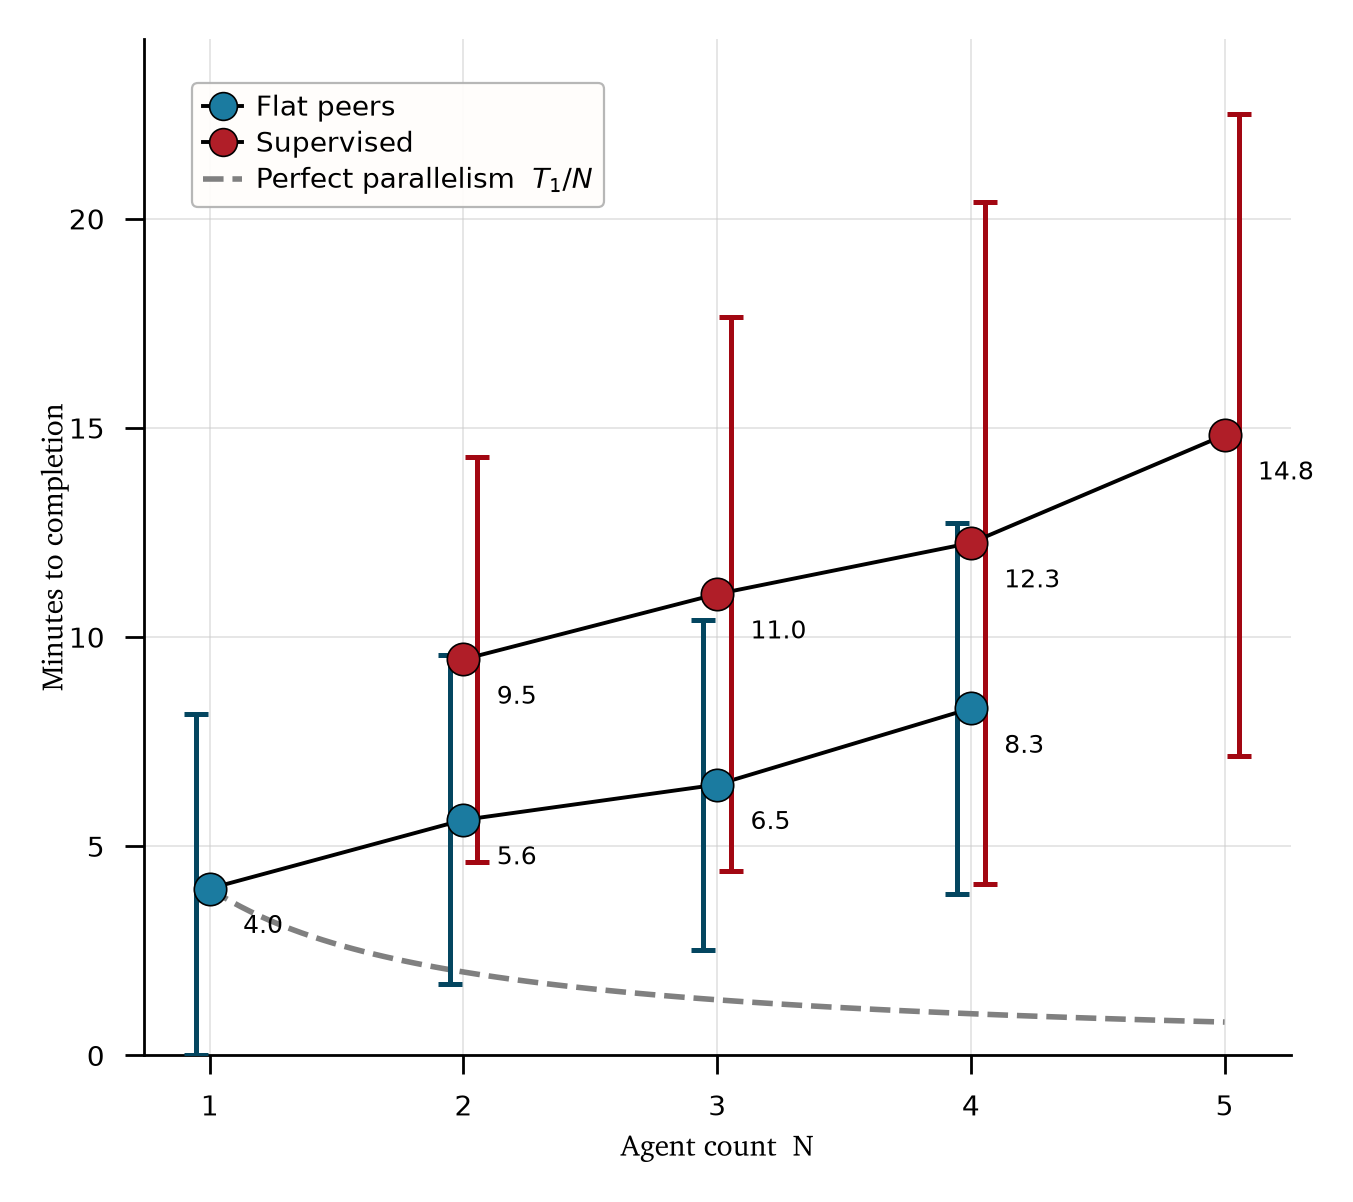
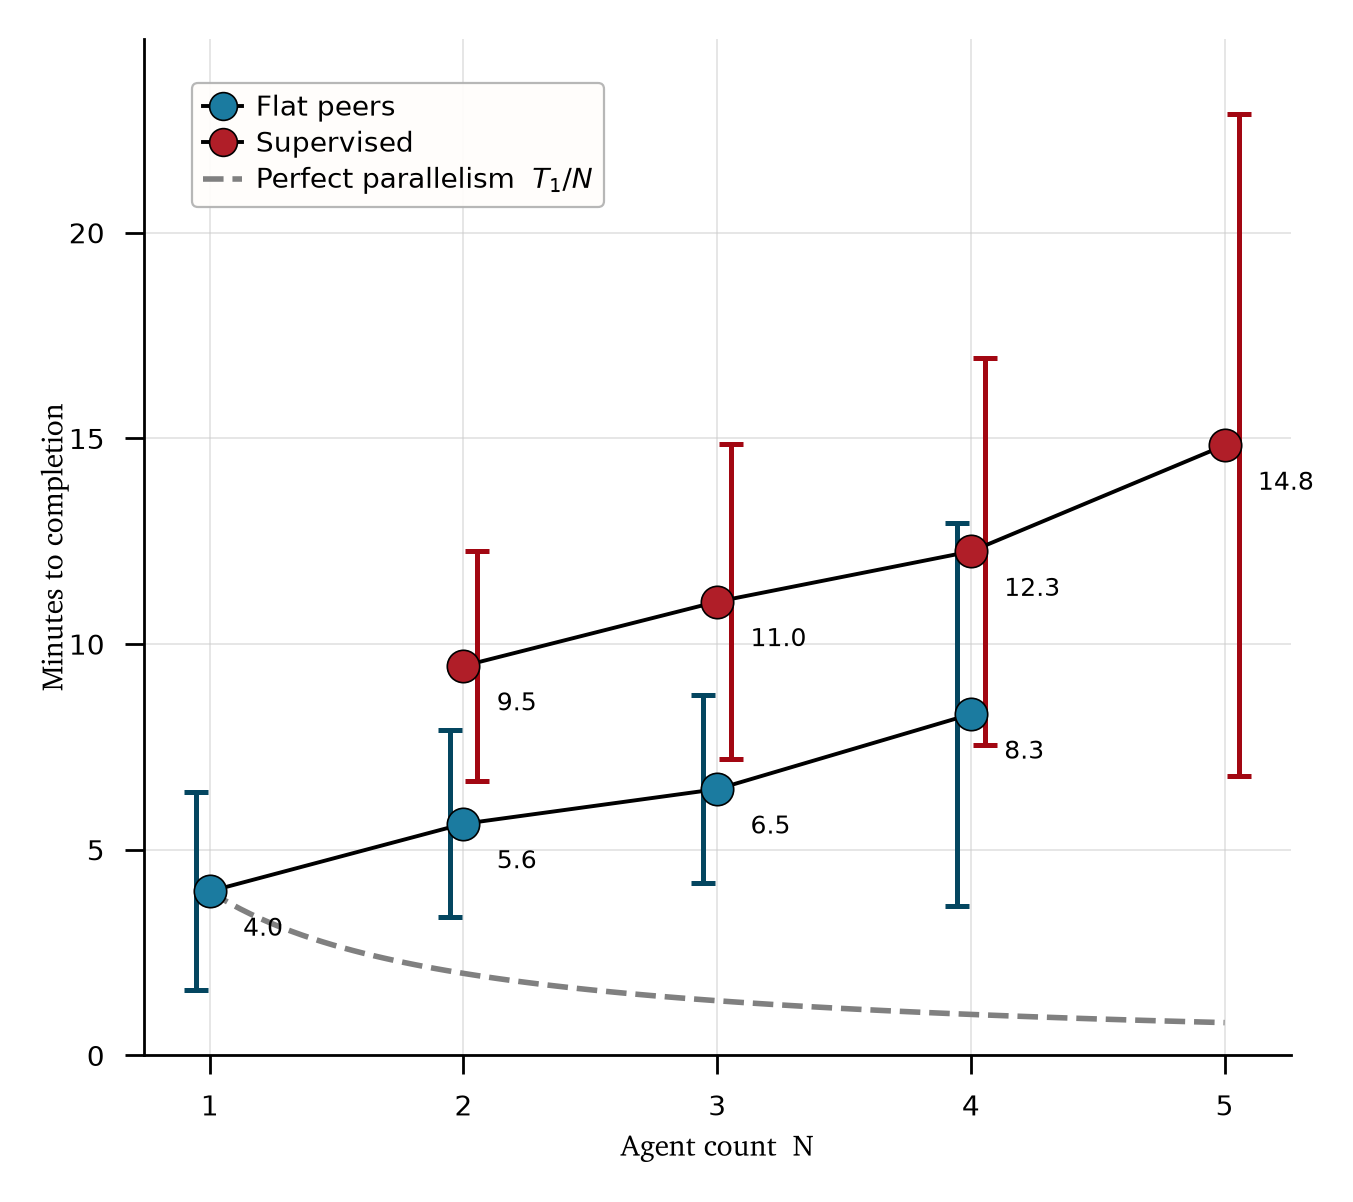
figures: 95% CI bars everywhere, on one pool-clustered construction
Reverses the SD experiment (4208b67d) back to confidence intervals, since the
report's claims are about how the *mean* moves with N and only a CI speaks to
that. Not a plain `git revert` of that commit, because the pre-SD state carried
a real inconsistency worth fixing on the way back.

One construction, every series, every figure:

    half-width = t*(k-1) . SD(pool means) / sqrt(k)

Previously fig2a clustered its graded-score bars by pool but drew its all-pass
bars as an unclustered Wilson interval, and fig3b did the same. Runs inside a
pool share a repo, a task and a feature clique, so counting all 44 as
independent overstated precision -- those bars were 1.3-2.6x too narrow, and
were not comparable with the clustered bars sharing their axis. The binary
series is now clustered like everything else.

Kept from the intervening work: per-series bar colours, the bar dodge, and
clipping at logical bounds (a fraction cannot leave [0,1], time and cost cannot
go below zero).

Captions rewritten for all five figures, and every claim checked against the
numbers. One I drafted was false and the check caught it: fig2b's adjacent
intervals do NOT all separate (2->3 and 3->4 overlap), so it now claims only
what holds -- N=1 [0.39,1.32] and N=4 [4.37,10.18] are disjoint, resolving the
rise across the range rather than at every step. Verified likewise:

- fig2e: every adjacent pair overlaps, N=1 vs N=4 included, so the caption
[…]

diff --git a/masters_thesis/scaling_analysis/figures.py b/masters_thesis/scaling_analysis/figures.py
@@ -130,21 +130,31 @@ def _bar_colour(colour, darken=0.60, sat_boost=1.15):
     return colorsys.hsv_to_rgb(h, min(1.0, s * sat_boost), max(0.0, v * darken))
 
 
-def _pool_sd(recs, field, key_n="N", scale=1.0):
-    """Per-N mean and +/-1 SD across POOL means, for every error bar we draw.
+# two-sided t critical values at 95% by degrees of freedom (small-sample honest)
+_T975 = {1: 12.706, 2: 4.303, 3: 3.182, 4: 2.776, 5: 2.571, 6: 2.447, 7: 2.365,
+         8: 2.306, 9: 2.262, 10: 2.228, 11: 2.201, 12: 2.179, 13: 2.160}
 
-    One construction for every series in every figure: average the runs within
-    each pool, then take the plain standard deviation across those pool means.
-    Bars are the *spread between pools*, not a confidence interval — they make
-    no inferential claim and are not a significance test.
 
-    The pool is the unit rather than the run for two reasons. Runs inside a
-    pool share a repo, a task and a feature clique, so they are not independent
-    observations; and for a binary outcome (all-pass) the run-level SD is just
-    sqrt(p(1-p)), which is fixed by the rate itself and carries no information
-    beyond the point already plotted.
+def _pool_ci(recs, field, key_n="N", scale=1.0):
+    """Per-N mean and 95% CI half-width of that mean, clustered by POOL.
 
-    Returns {N: {"mean", "sd", "n_pools"}}, with values multiplied by `scale`
+    ONE construction for every series in every figure: average the runs within
+    each pool, then take a t interval across those pool means,
+
+        half-width = t*(k-1) . SD(pool means) / sqrt(k)
+
+    so the bar answers "how precisely is this average known", and two points
+    whose bars clear each other differ by more than sampling noise.
+
+    The pool is the replication unit, not the run: runs inside a pool share a
+    repo, a task and a feature clique, so they are not independent and counting
+    them as such would overstate precision. This applies to the binary all-pass
+    series too, which is why it is no longer drawn as an unclustered Wilson
+    interval — that treated 44 correlated runs as 44 independent ones and came
+    out 1.3-2.6x too narrow, and it was inconsistent with the graded-score bars
+    sitting on the same axis.
+
+    Returns {N: {"mean", "hw", "sd", "n_pools"}}, values scaled by `scale`
     (used to convert seconds to minutes).
     """
     from collections import defaultdict
@@ -159,22 +169,23 @@ def _pool_sd(recs, field, key_n="N", scale=1.0):
     for N, by_pool in by_n.items():
         pool_means = np.array([np.mean(v) for v in by_pool.values()])
         k = len(pool_means)
-        out[N] = {"mean": float(pool_means.mean()),
-                  "sd": float(pool_means.std(ddof=1)) if k > 1 else 0.0,
-                  "n_pools": k}
+        sd = float(pool_means.std(ddof=1)) if k > 1 else 0.0
+        hw = _T975.get(k - 1, 1.96) * sd / np.sqrt(k) if k > 1 else 0.0
+        out[N] = {"mean": float(pool_means.mean()), "hw": float(hw),
+                  "sd": sd, "n_pools": k}
     return out
 
 
-def _clip_bars(points, sds, lo=None, hi=None):
-    """Split symmetric SD bars into [down, up] distances, clipped to a range.
+def _clip_bars(points, hws, lo=None, hi=None):
+    """Split symmetric bars into [down, up] distances, clipped to a range.
 
     Graded score and all-pass are fractions, so a bar may not extend past 0 or
-    1; wall-clock and cost may not go below 0. Clipping at the logical bound is
-    honest — the quantity genuinely cannot live outside it — and keeps the bars
-    inside the axes.
+    1; wall-clock and cost may not go below 0. A normal-theory interval has no
+    such knowledge, so clipping at the logical bound is what keeps the drawing
+    honest — the quantity genuinely cannot live outside it.
     """
     down, up = [], []
-    for p, s in zip(points, sds):
+    for p, s in zip(points, hws):
         d = s if lo is None else min(s, p - lo)
         u = s if hi is None else min(s, hi - p)
         down.append(max(d, 0.0))
@@ -238,10 +249,10 @@ def figure2a(recs):
     # carry its own fraction-scaled colour (green = score, orange = all-pass)
     ax.plot(ns, score, "-", color="black", lw=0.7, zorder=3)
     ax.plot(ns, allp, "-", color="black", lw=0.7, zorder=3)
-    # +/-1 SD across pool means — the same construction for BOTH series, so the
-    # two sets of bars are directly comparable
-    ci = _pool_sd(recs, "score")
-    ap = _pool_sd(recs, "all_passed")
+    # 95% CI of the mean, clustered by pool — the same construction for BOTH
+    # series, so the two sets of bars are directly comparable
+    ci = _pool_ci(recs, "score")
+    ap = _pool_ci(recs, "all_passed")
     # two series, two bar colours: blue bars belong to the graded score, rust
     # bars to the all-pass rate. The bars overlap vertically at several N, so a
     # shared grey left them unattributable.
@@ -250,16 +261,15 @@ def figure2a(recs):
     # 4.5:1 contrast floor on white, at 4.7
     score_bar = _bar_colour(_score_shade(0.95))
     allp_bar = _bar_colour(_allpass_shade(0.88), darken=0.82)
-    # SD bars are far taller than the old CIs and both series share an x, so the
-    # all-pass bar would sit exactly on top of the score bar and hide it. Dodge
-    # the BARS a hair apart; markers and lines stay on the true N.
+    # both series share an x, so one bar can sit on top of the other and hide
+    # it. Dodge the BARS a hair apart; markers and lines stay on the true N.
     dx = 0.055
     ax.errorbar([n - dx for n in ns], score,
-                yerr=_clip_bars(score, [ci[N]["sd"] for N in ns], 0.0, 1.0),
+                yerr=_clip_bars(score, [ci[N]["hw"] for N in ns], 0.0, 1.0),
                 fmt="none", ecolor=score_bar, elinewidth=0.9, capsize=2.2,
                 capthick=0.9, zorder=3)
     ax.errorbar([n + dx for n in ns], allp,
-                yerr=_clip_bars(allp, [ap[N]["sd"] for N in ns], 0.0, 1.0),
+                yerr=_clip_bars(allp, [ap[N]["hw"] for N in ns], 0.0, 1.0),
                 fmt="none", ecolor=allp_bar, elinewidth=0.9, capsize=2.2,
                 capthick=0.9, zorder=3)
     ax.scatter(ns, score, s=32, marker="o", zorder=4, linewidths=0.3,
@@ -273,7 +283,7 @@ def figure2a(recs):
     for x, y in zip(ns, allp):
         ax.annotate(f"{y:.0%}", (x, y), textcoords="offset points", xytext=(8, -8),
                     ha="left", fontsize=4.7, color="black", fontname="Helvetica")
-    # pool count behind each N's error bars (the SD is taken across these)
+    # pool count behind each N's error bars (these drive the CI width)
     for N in ns:
         ax.text(N, 1.10, f"{ci[N]['n_pools']} pools", ha="center", va="bottom",
                 fontsize=4.3, color="0.45", fontname="Helvetica")
@@ -305,13 +315,13 @@ def figure2b(recs):
     ax.plot(xline, slope * xline + intercept, "--", color="0.5", lw=1.0, zorder=2)
     ax.plot(ns, cost, "-", color="black", lw=0.7, zorder=3)
     # 95% CI of mean cost, clustered by pool (matches fig2a)
-    ci = _pool_sd(recs, "cost")  # +/-1 SD across pool means
+    ci = _pool_ci(recs, "cost")  # 95% CI of the mean, clustered by pool
     # one hue (violet); markers deepen/brighten with cost but read as one series
     lo, hi = min(cost), max(cost)
     cvals = [_mono_shade(c, COST_HUE, lo, hi) for c in cost]
     # single series, so there is nothing to disambiguate by hue: black gives the
     # bars maximum contrast and keeps them distinct from the grey linear fit
-    ax.errorbar(ns, cost, yerr=_clip_bars(cost, [ci[N]["sd"] for N in ns], lo=0.0),
+    ax.errorbar(ns, cost, yerr=_clip_bars(cost, [ci[N]["hw"] for N in ns], lo=0.0),
                 fmt="none", ecolor="black", elinewidth=0.9, capsize=2.2,
                 capthick=0.9, zorder=3)
     ax.scatter(ns, cost, s=34, marker="o", zorder=4, linewidths=0.3,
@@ -324,7 +334,7 @@ def figure2b(recs):
         ax.annotate(f"{ci[N]['n_pools']} pools", (N, y + ci[N]["sd"]),
                     textcoords="offset points", xytext=(0, 4), ha="center",
                     va="bottom", fontsize=4.3, color="0.45", fontname="Helvetica")
-    top = max(c + ci[N]["sd"] for N, c in zip(ns, cost))
+    top = max(c + ci[N]["hw"] for N, c in zip(ns, cost))
     ax.set_ylim(0, top * 1.16)
     _fig2_chrome(fig, ax, ns, "US dollars")
     return _save(fig, "fig2b_cost.png", facecolor="white")
@@ -448,13 +458,13 @@ def figure2e(recs):
     ax.plot(xline, t1 / xline, "--", color="0.5", lw=1.0, zorder=2)
     ax.plot(ns, walls, "-", color="black", lw=0.7, zorder=3)
     # 95% CI of mean wall time, clustered by pool (matches fig2a/2b)
-    ci = _pool_sd(recs, "wall_seconds", scale=1.0 / 60)  # +/-1 SD across pool means
+    ci = _pool_ci(recs, "wall_seconds", scale=1.0 / 60)  # 95% CI, clustered by pool
     # one hue (warm red); markers deepen as time inflates but read as one series
     lo, hi = min(walls), max(walls)
     cvals = [_mono_shade(w, TIME_HUE, lo, hi) for w in walls]
     # single series: black, for maximum contrast and a clean separation from
     # the grey dashed T1/N ideal running through the same region
-    ax.errorbar(ns, walls, yerr=_clip_bars(walls, [ci[N]["sd"] for N in ns], lo=0.0),
+    ax.errorbar(ns, walls, yerr=_clip_bars(walls, [ci[N]["hw"] for N in ns], lo=0.0),
                 fmt="none", ecolor="black", elinewidth=0.9, capsize=2.2,
                 capthick=0.9, zorder=3)
     ax.scatter(ns, walls, s=34, marker="o", zorder=4, linewidths=0.3,
@@ -468,7 +478,7 @@ def figure2e(recs):
             ax.annotate(f"{t[x]['speedup_mean']:.2f}×", (x, y),
                         textcoords="offset points", xytext=(7, -8), ha="left",
                         fontsize=4.3, color="0.45", fontname="Helvetica")
-    top = max(w + ci[N]["sd"] for N, w in zip(ns, walls))
+    top = max(w + ci[N]["hw"] for N, w in zip(ns, walls))
     ax.set_ylim(0, top * 1.16)
     handles = [
         Line2D([0], [0], color="black", lw=0.7, marker="o", markersize=5,

diff --git a/final_report/final_report.tex b/final_report/final_report.tex
@@ -371,7 +371,7 @@ Correctness degrades more mildly, and less universally. Averaged over all fourte
 \begin{figure}[!htb]
 	\centering
 	\includegraphics[width=0.5625\linewidth]{fig2a_correctness.png}
-	\caption{\textbf{Adding agents buys no correctness.} The graded score (blue circles) stays flat-to-declining while the strict all-pass rate (squares) falls monotonically from 89\% at $N = 1$ to 69\% at $N = 4$. Error bars show variability across pools; the number of contributing pools is annotated above each point.
+	\caption{\textbf{Adding agents buys no correctness.} The graded score (blue circles) stays flat-to-declining while the strict all-pass rate (squares) falls monotonically from 89\% at $N = 1$ to 69\% at $N = 4$. Error bars are 95\% confidence intervals of the mean, clustered by pool: runs are averaged within each pool, and the interval is $t^{*}_{k-1} \cdot \mathrm{SD}(\text{pool means}) / \sqrt{k}$ across the $k$ pools annotated above each point. The pool is the replication unit rather than the run, since runs within one share a repository, a task and a feature clique and are therefore not independent; the same construction is used for every error bar in this report, including the binary all-pass series, so all bars are directly comparable. Bars are clipped at 0 and 1, which a fraction cannot exceed, and dodged a fraction of an agent apart so the two series stay separable; markers sit on the true $N$. The all-pass interval widens sharply at $N = 4$ ($\pm 0.54$) because only 6 of the 14 pools carry enough features to split four ways.
     }\label{fig:correctness}
 \end{figure}
 
@@ -380,7 +380,7 @@ Cost, by contrast, rises on every pool --- from \$0.78 solo to \$7.21 at four ag
 \begin{figure}[!htb]
 	\centering
 	\includegraphics[width=0.5625\linewidth]{fig2b_cost.png}
-	\caption{\textbf{Cost rises near-linearly in agent count.} Mean cost per run climbs from \$0.78 at $N = 1$ to \$7.21 at $N = 4$, closely following a linear trend (dashed line) of roughly \$2 per added agent. Error bars show variability across pools.
+	\caption{\textbf{Cost rises near-linearly in agent count.} Mean cost per run climbs from \$0.78 at $N = 1$ to \$7.21 at $N = 4$, closely following a linear trend (dashed line) of roughly \$2 per added agent. Error bars are 95\% confidence intervals of the mean, clustered by pool (Figure~\ref{fig:correctness}), clipped at zero; the contributing pool count is annotated above each point. Adjacent intervals overlap slightly from three agents on, but the $N = 1$ and $N = 4$ intervals are disjoint ($[0.39, 1.32]$ against $[4.37, 10.18]$), so the rise is resolved across the range even where consecutive steps are not individually separated.
     }\label{fig:cost}
 \end{figure}
 
@@ -398,7 +398,7 @@ The remaining argument for a team is speed: whatever the dollar cost, $N$ agents
 \begin{figure}[!htb]
 	\centering
 	\includegraphics[width=0.5625\linewidth]{fig2e_walltime.png}
-	\caption{\textbf{Wall-clock time to completion vs.\ team size.} Each point is the mean wall-clock minutes per run at agent count $N$ (a run's clock stops when its last agent finishes, so wall time tracks the slowest member; evaluation time is excluded). Error bars are 95\% confidence intervals of the mean, clustered by pool. The dashed curve is the perfect-parallelism ideal $T_1/N$, and the grey multiplier under each point is the realised within-pool speedup: $0.66\times$, $0.55\times$, $0.56\times$ at $N = 2, 3, 4$. Observed time rises away from the falling ideal --- teams finish later than the solo baseline rather than approaching $T_1/N$.
+	\caption{\textbf{Wall-clock time to completion vs.\ team size.} Each point is the mean wall-clock minutes per run at agent count $N$ (a run's clock stops when its last agent finishes, so wall time tracks the slowest member; evaluation time is excluded). Error bars are 95\% confidence intervals of the mean, clustered by pool (Figure~\ref{fig:correctness}), clipped at zero. They are wide relative to the rise --- pools differ far more in absolute duration than the trend moves --- so the claim rests on the direction being consistent across the range and on the paired within-pool speedups below, not on any single pair of points separating. The dashed curve is the perfect-parallelism ideal $T_1/N$, and the grey multiplier under each point is the realised within-pool speedup: $0.66\times$, $0.55\times$, $0.56\times$ at $N = 2, 3, 4$. Observed time rises away from the falling ideal --- teams finish later than the solo baseline rather than approaching $T_1/N$.
     }\label{fig:walltime}
 \end{figure}
 
@@ -479,7 +479,7 @@ The more striking result is qualitative. On the strict all-pass rate --- the pro
 \begin{figure}[!htb]
 	\centering
 	\includegraphics[width=0.5625\linewidth]{fig3b_correctness_topology.png}
-	\caption{\textbf{Correctness trends run in opposite directions.} Strict all-pass rate by topology with Wilson 95\% intervals: flat peers fall monotonically from 89\% at $N = 1$ to 69\% at $N = 4$, while supervision rises from 77\% at $N = 2$ to 88\% at $N = 5$. The curves cross between two and three agents; at four agents the ordering has reversed (84\% vs 69\%). Intervals are wide at the endpoints (16 runs), so the crossing is a trend across the range rather than a significant difference at any single size.
+	\caption{\textbf{Correctness trends run in opposite directions.} Strict all-pass rate by topology: flat peers fall monotonically from 89\% at $N = 1$ to 69\% at $N = 4$, while supervision rises from 77\% at $N = 2$ to 88\% at $N = 5$. The curves cross between two and three agents; at four agents the ordering has reversed (84\% vs 69\%). Error bars are 95\% confidence intervals of the mean, clustered by pool (Figure~\ref{fig:correctness}), clipped to $[0, 1]$ and dodged so the two arms stay separable. They overlap at every team size, and the flat arm's $N = 4$ interval is very wide (6 pools), so the crossing is a trend across the range rather than a significant difference at any single size.
     }\label{fig:topocorrect}
 \end{figure}
 
@@ -492,7 +492,7 @@ Supervision buys none of its advantage back in time. It is slower than flat peer
 \begin{figure}[!htb]
 	\centering
 	\includegraphics[width=0.5625\linewidth]{fig3d_wallclock_topology.png}
-	\caption{\textbf{Hierarchy is slower still.} Mean wall-clock minutes to completion by topology, against the perfect-parallelism ideal $T_1/N$ anchored at the 4.0-minute flat solo baseline. Supervision is slower at every size --- 9.5 $\rightarrow$ 14.8 minutes across 2--5 agents against the flat arm's 5.6 $\rightarrow$ 8.3 --- and the gap widens; realised speedups are $0.38\times \rightarrow 0.32\times$ against the solo baseline.
+	\caption{\textbf{Hierarchy is slower still.} Mean wall-clock minutes to completion by topology, against the perfect-parallelism ideal $T_1/N$ anchored at the 4.0-minute flat solo baseline. Supervision is slower at every size --- 9.5 $\rightarrow$ 14.8 minutes across 2--5 agents against the flat arm's 5.6 $\rightarrow$ 8.3 --- and the gap widens; realised speedups are $0.38\times \rightarrow 0.32\times$ against the solo baseline. Error bars are 95\% confidence intervals of the mean, clustered by pool (Figure~\ref{fig:correctness}), clipped at zero and dodged by arm. They overlap at every size, so the level difference rests on the ordering holding at all four shared team sizes rather than on any single point separating.
     }\label{fig:topowall}
 \end{figure}
 

diff --git a/masters_thesis/leader_analysis/figures.py b/masters_thesis/leader_analysis/figures.py
@@ -54,8 +54,9 @@ SURFACE = "#fffdfb"   # faint warm off-white surface
 # module named `figures` (and one named `analyze`), so cross-importing collides;
 # self-containment is the same property the fig2 suite advertises.
 
-# (the 95% t table that used to live here went with the CI bars — every figure
-#  now draws +/-1 SD across pool means instead; see _sd)
+# two-sided t critical values at 95% by degrees of freedom (small-sample honest)
+_T975 = {1: 12.706, 2: 4.303, 3: 3.182, 4: 2.776, 5: 2.571, 6: 2.447, 7: 2.365,
+         8: 2.306, 9: 2.262, 10: 2.228, 11: 2.201, 12: 2.179, 13: 2.160}
 
 
 def _style():
@@ -175,15 +176,15 @@ ACCOUNTS = [("Context", "context", "#cfe6ef"), ("Task", "task", "#1b7ba0"),
             ("Comm", "comm", "#ef8080"), ("Rework", "rework", "#b01e28")]
 
 
-def _sd(recs, arm, field, agents):
-    """+/-1 SD across POOL means — the single construction behind every bar.
+def _ci(recs, arm, field, agents):
+    """95% CI half-width of the mean, clustered by POOL — every bar in fig 3.
 
-    Matches fig2a/2b/2e: average the runs within each pool, then take the plain
-    standard deviation across those pool means. This is descriptive spread
-    between pools, not a confidence interval, so it makes no inferential claim
-    and is not a significance test. The pool is the unit because runs inside one
-    share a repo, a task and a feature clique, and because for a binary outcome
-    the run-level SD is just sqrt(p(1-p)) — fixed by the rate already plotted.
+    Matches fig2a/2b/2e exactly: average the runs within each pool, then take a
+    t interval across those pool means, t*(k-1) . SD / sqrt(k). The pool is the
+    replication unit because runs inside one share a repo, a task and a feature
+    clique, so counting them as independent would overstate precision. That
+    applies to the binary all-pass series too, which is why fig3b no longer
+    draws an unclustered Wilson interval.
     """
     from collections import defaultdict
     by_pool = defaultdict(list)
@@ -191,15 +192,16 @@ def _sd(recs, arm, field, agents):
         if r["arm"] == arm and r["agents"] == agents and r.get(field) is not None:
             by_pool[r["pool_id"]].append(float(r[field]))
     pool_means = np.array([np.mean(v) for v in by_pool.values()])
-    if len(pool_means) < 2:
+    k = len(pool_means)
+    if k < 2:
         return 0.0
-    return float(pool_means.std(ddof=1))
+    return float(_T975.get(k - 1, 1.96) * pool_means.std(ddof=1) / np.sqrt(k))
 
 
-def _clip_bars(points, sds, lo=None, hi=None):
-    """Split symmetric SD bars into [down, up] distances, clipped to a range."""
+def _clip_bars(points, hws, lo=None, hi=None):
+    """Split symmetric bars into [down, up] distances, clipped to a range."""
     down, up = [], []
-    for p, s in zip(points, sds):
+    for p, s in zip(points, hws):
         d = s if lo is None else min(s, p - lo)
         u = s if hi is None else min(s, hi - p)
         down.append(max(d, 0.0))
@@ -283,10 +285,10 @@ def figure3b(recs):
     handles = []
     for arm, colour, label, ly in (("flat", FLAT, "Flat peers", 7), ("leader", LEADER, "Supervised", -11)):
         ns, ys = _arm_points(agg, arm, "all_pass_rate")
-        # +/-1 SD across pool means, clipped to [0, 1] (matches fig2a)
-        errs = [_sd(recs, arm, "all_passed", n) for n in ns]
-        # dodge the bars so the two arms' SD bars do not sit on top of each
-        # other at the sizes N where both are present (markers stay on true N)
+        # 95% CI of the mean, clustered by pool, clipped to [0, 1] (matches fig2a)
+        errs = [_ci(recs, arm, "all_passed", n) for n in ns]
+        # dodge the bars so the two arms do not sit on top of each other at the
+        # sizes N where both are present (markers stay on the true N)
         dx = 0.055 if arm == "leader" else -0.055
         ax.errorbar([n + dx for n in ns], ys, yerr=_clip_bars(ys, errs, 0.0, 1.0), fmt="none",
                     ecolor=_bar_colour(colour, BAR_DARKEN[arm]),
@@ -369,11 +371,11 @@ def figure3d(recs):
     xline = np.linspace(1, 5, 100)
     ax.plot(xline, t1 / xline, "--", color="0.5", lw=1.0, zorder=2)
     handles = []
-    bar_top = 0.0  # tallest point+SD, so the ylim below leaves room for the bars
+    bar_top = 0.0  # tallest point+CI, so the ylim below leaves room for the bars
     for arm, colour, label in (("flat", FLAT, "Flat peers"), ("leader", LEADER, "Supervised")):
         ns = sorted(n for (a, n) in t if a == arm)
         ys = [t[(arm, n)]["mean_wall_s"] / 60 for n in ns]
-        errs = [_sd(recs, arm, "wall_seconds", n) / 60 for n in ns]
+        errs = [_ci(recs, arm, "wall_seconds", n) / 60 for n in ns]
         bar_top = max(bar_top, max(y + e for y, e in zip(ys, errs)))
         dx = 0.055 if arm == "leader" else -0.055
         ax.errorbar([n + dx for n in ns], ys, yerr=_clip_bars(ys, errs, lo=0.0), fmt="none",
